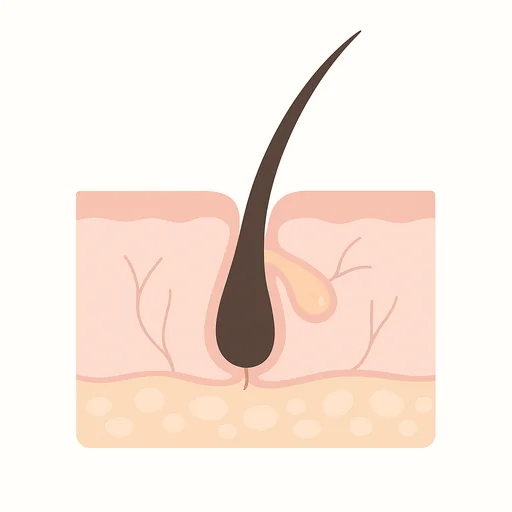
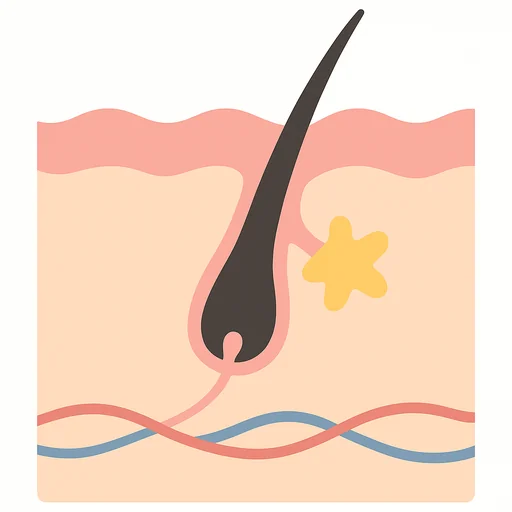
Update preview: HTML feature cards, mobile layout fixes, regenerated mechanism illustrations

diff --git a/index.html b/index.html
@@ -144,9 +144,16 @@ $(document).ready(function() {
 
 <!-- スマホ時のみ「ニキビの仕組み」3画像を中央寄せで縮小（PC表示は変更なし） -->
 <style>
+/* アンカー先の見出しが固定ヘッダーに隠れないように */
+#case01,#case02,#case03,#case04,#case05,#case06{scroll-margin-top:140px;}
 @media (max-width:767px){
-  .pore_steps li img{max-width:55%;}
-  .pore_steps li p{text-align:center;}
+  #case01,#case02,#case03,#case04,#case05,#case06{scroll-margin-top:70px;}
+  /* お悩み・4つの働き：スマホは1列 */
+  .nayami_list > li{width:100%!important;}
+  .reasons4 > li{width:100%!important;}
+  /* ニキビの仕組み：スマホでも横3列に並べる */
+  .pore_steps > li{width:31%!important;}
+  .pore_steps li p{text-align:center;font-size:78%;}
 }
 </style>
 
@@ -177,7 +184,7 @@ $(document).ready(function() {
 
 <div class="box">
 <h2 class="inside_headline">こんなお悩みはありませんか？</h2>
-<ul class="common_flex_box" style="flex-wrap:wrap;">
+<ul class="common_flex_box nayami_list" style="flex-wrap:wrap;">
 <li style="width:48%;list-style:none;border-bottom:1px dashed #E3B9B9;padding:8px 0 8px 30px;position:relative;"><i class="fas fa-check-circle" style="position:absolute;left:0;top:10px;color:#E09696;"></i>ニキビが何度も繰り返してしまう</li>
 <li style="width:48%;list-style:none;border-bottom:1px dashed #E3B9B9;padding:8px 0 8px 30px;position:relative;"><i class="fas fa-check-circle" style="position:absolute;left:0;top:10px;color:#E09696;"></i>ニキビ痕の赤みや色素沈着が気になる</li>
 <li style="width:48%;list-style:none;border-bottom:1px dashed #E3B9B9;padding:8px 0 8px 30px;position:relative;"><i class="fas fa-check-circle" style="position:absolute;left:0;top:10px;color:#E09696;"></i>市販のニキビケアでは効果を感じられなかった</li>
@@ -233,7 +240,28 @@ $(document).ready(function() {
 <div class="box" id="case01">
 <h2 class="inside_headline">アゼライン酸の4つの働き</h2>
 <p class="con_lead">アクネ菌・毛穴の詰まり・炎症・色素沈着。ニキビの一連のサイクルに多角的にアプローチします。</p>
-<p style="text-align:center;margin:0;"><img src="img/azelaic_4actions.webp" alt="アゼライン酸の4つの働き：抗菌・角化抑制・抗炎症・美白" style="width:100%;max-width:880px;height:auto;"/></p>
+<ul class="common_flex_box reasons4" style="flex-wrap:wrap;">
+<li style="width:48%;background:#fff;border:1.6px solid #E3B9B9;border-radius:10px;padding:22px;margin-bottom:20px;">
+<p style="text-align:center;margin:0 0 6px;"><i class="fas fa-shield-virus" style="font-size:40px;color:#E09696;"></i></p>
+<p class="mgn_btm10" style="font-weight:700;color:#BA6161;font-size:116%;text-align:center;">抗菌作用</p>
+<p class="mgn_btm0">アクネ菌の増殖を抑え、ニキビの発生・悪化を防ぎます。</p>
+</li>
+<li style="width:48%;background:#fff;border:1.6px solid #E3B9B9;border-radius:10px;padding:22px;margin-bottom:20px;">
+<p style="text-align:center;margin:0 0 6px;"><i class="fas fa-bullseye" style="font-size:40px;color:#E09696;"></i></p>
+<p class="mgn_btm10" style="font-weight:700;color:#BA6161;font-size:116%;text-align:center;">角化を抑制</p>
+<p class="mgn_btm0">毛穴の過剰な角化を抑え、つまり（コメド）を防ぎます。</p>
+</li>
+<li style="width:48%;background:#fff;border:1.6px solid #E3B9B9;border-radius:10px;padding:22px;margin-bottom:20px;">
+<p style="text-align:center;margin:0 0 6px;"><i class="fas fa-droplet" style="font-size:40px;color:#E09696;"></i></p>
+<p class="mgn_btm10" style="font-weight:700;color:#BA6161;font-size:116%;text-align:center;">抗炎症作用</p>
+<p class="mgn_btm0">炎症をやわらげ、赤ニキビや赤みを穏やかに鎮めます。</p>
+</li>
+<li style="width:48%;background:#fff;border:1.6px solid #E3B9B9;border-radius:10px;padding:22px;margin-bottom:20px;">
+<p style="text-align:center;margin:0 0 6px;"><i class="fas fa-wand-magic-sparkles" style="font-size:40px;color:#E09696;"></i></p>
+<p class="mgn_btm10" style="font-weight:700;color:#BA6161;font-size:116%;text-align:center;">美白作用</p>
+<p class="mgn_btm0">メラニンの生成を抑え、ニキビ痕の色素沈着にアプローチします。</p>
+</li>
+</ul>
 </div>
 
 </div><!--end contents-->
